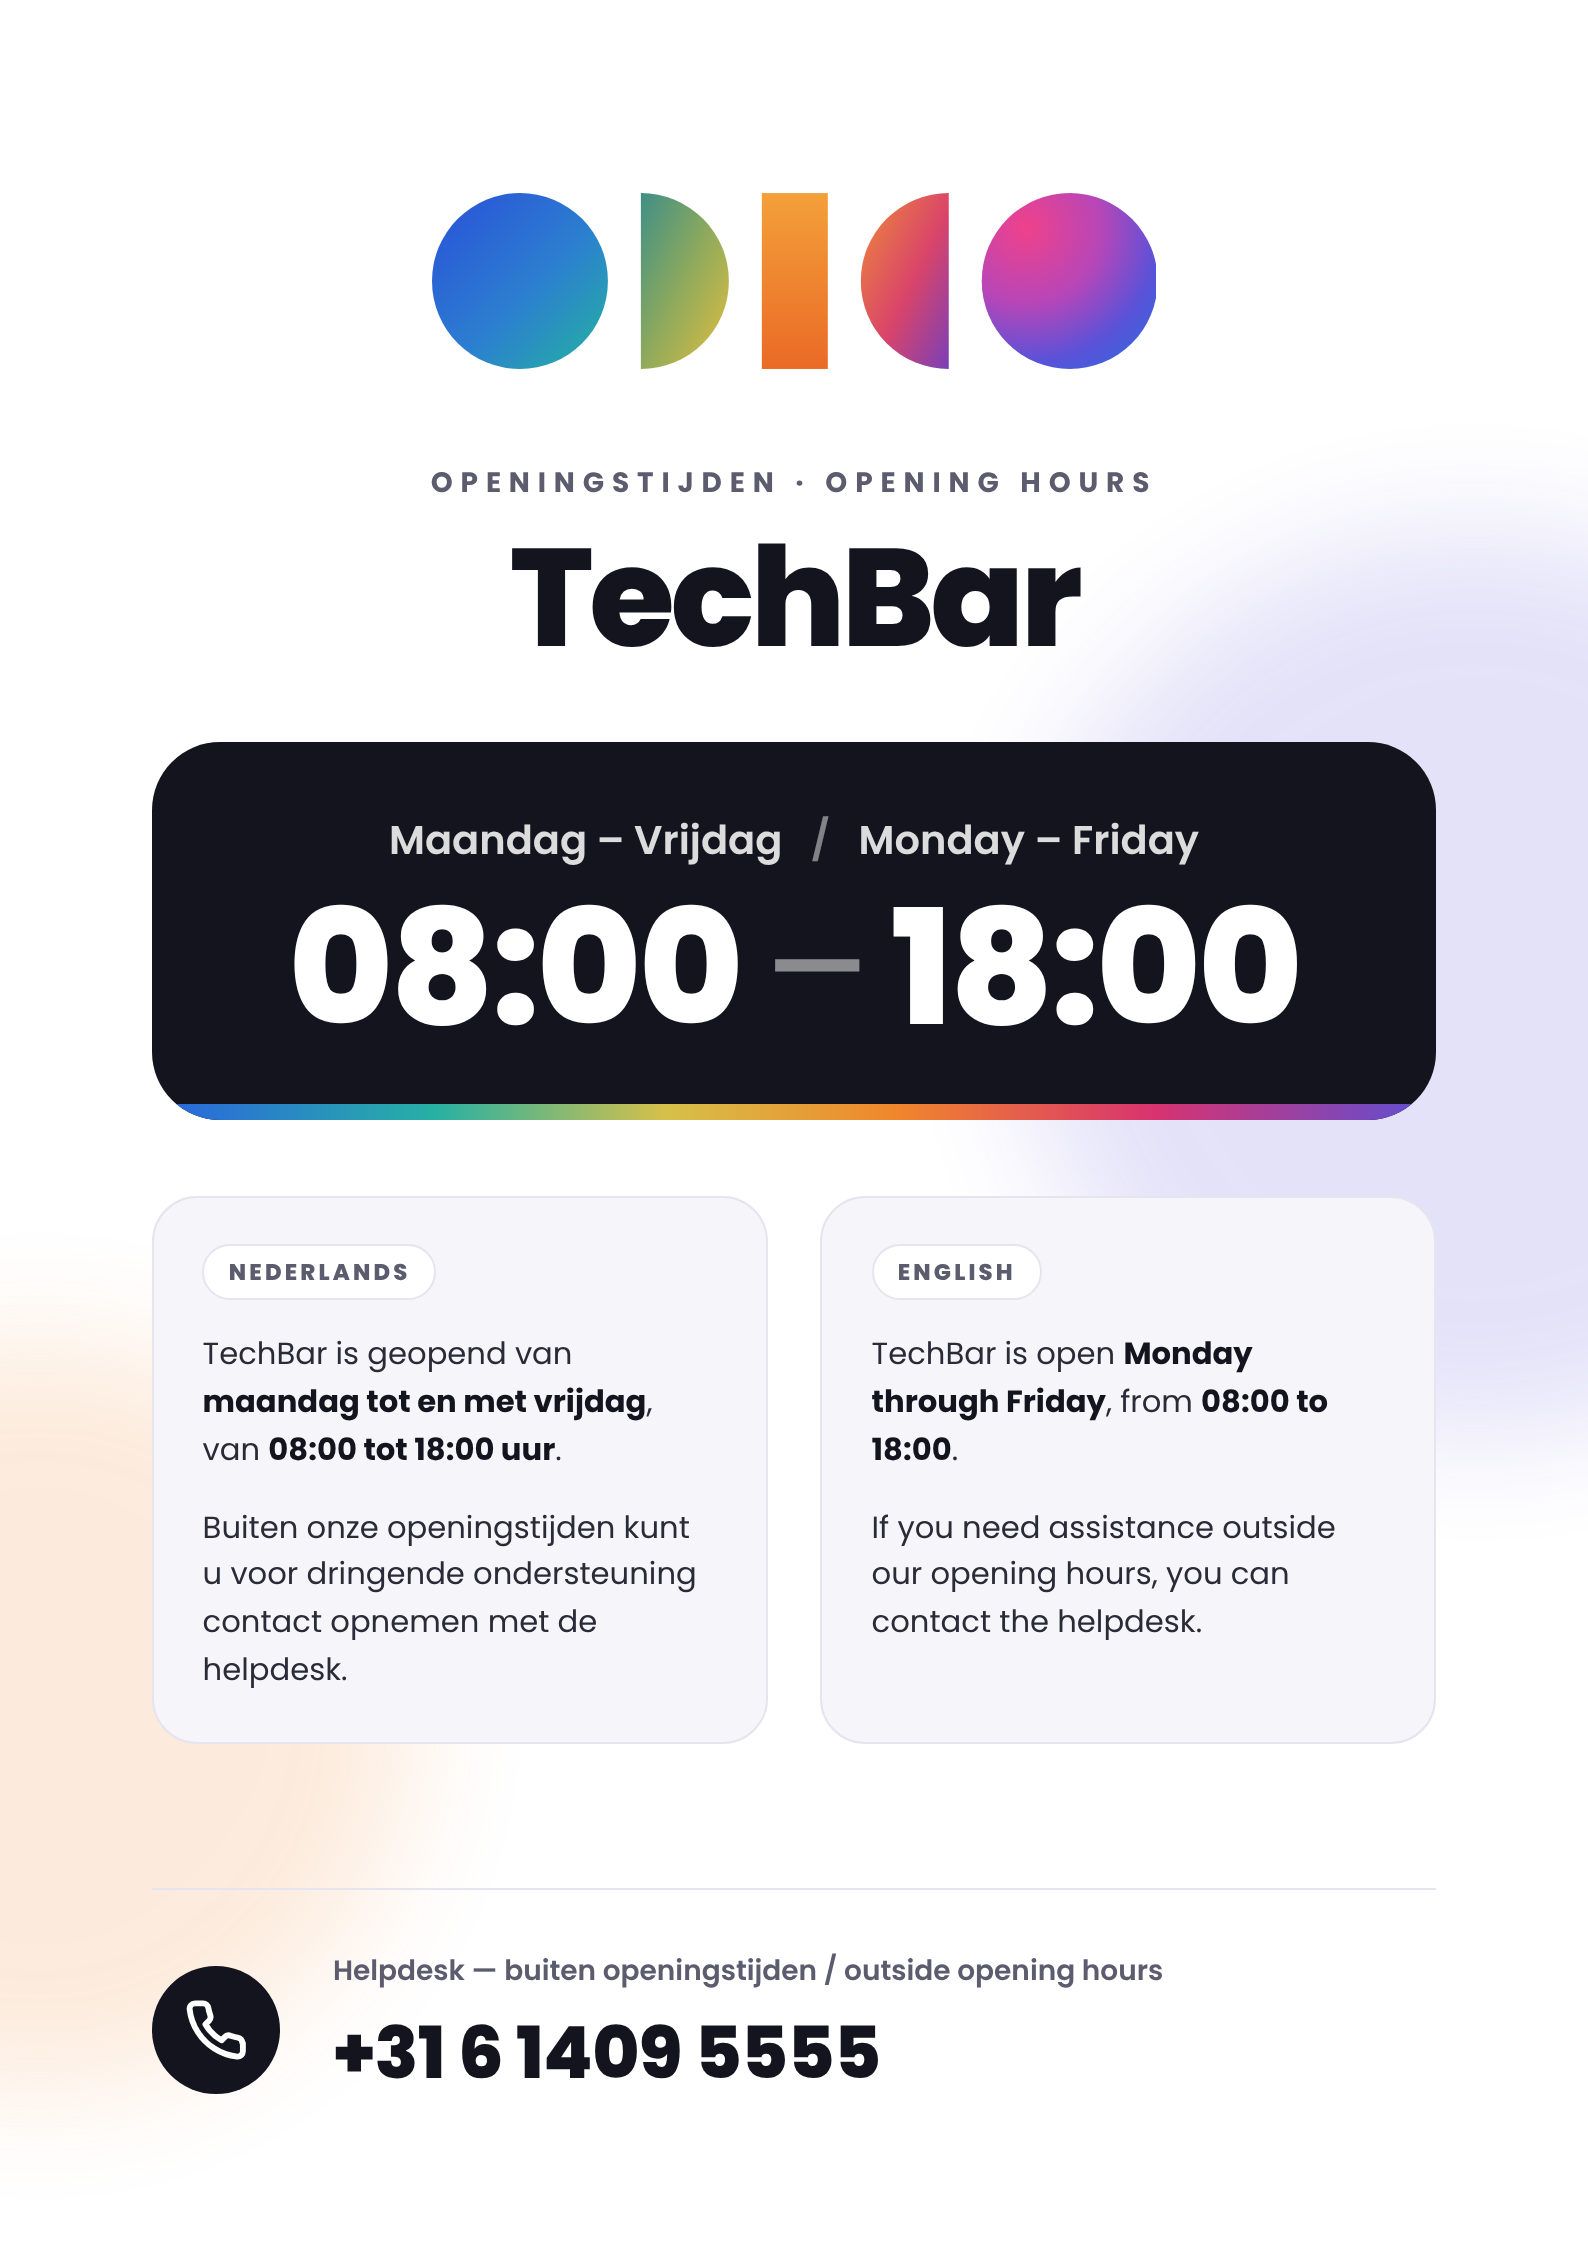
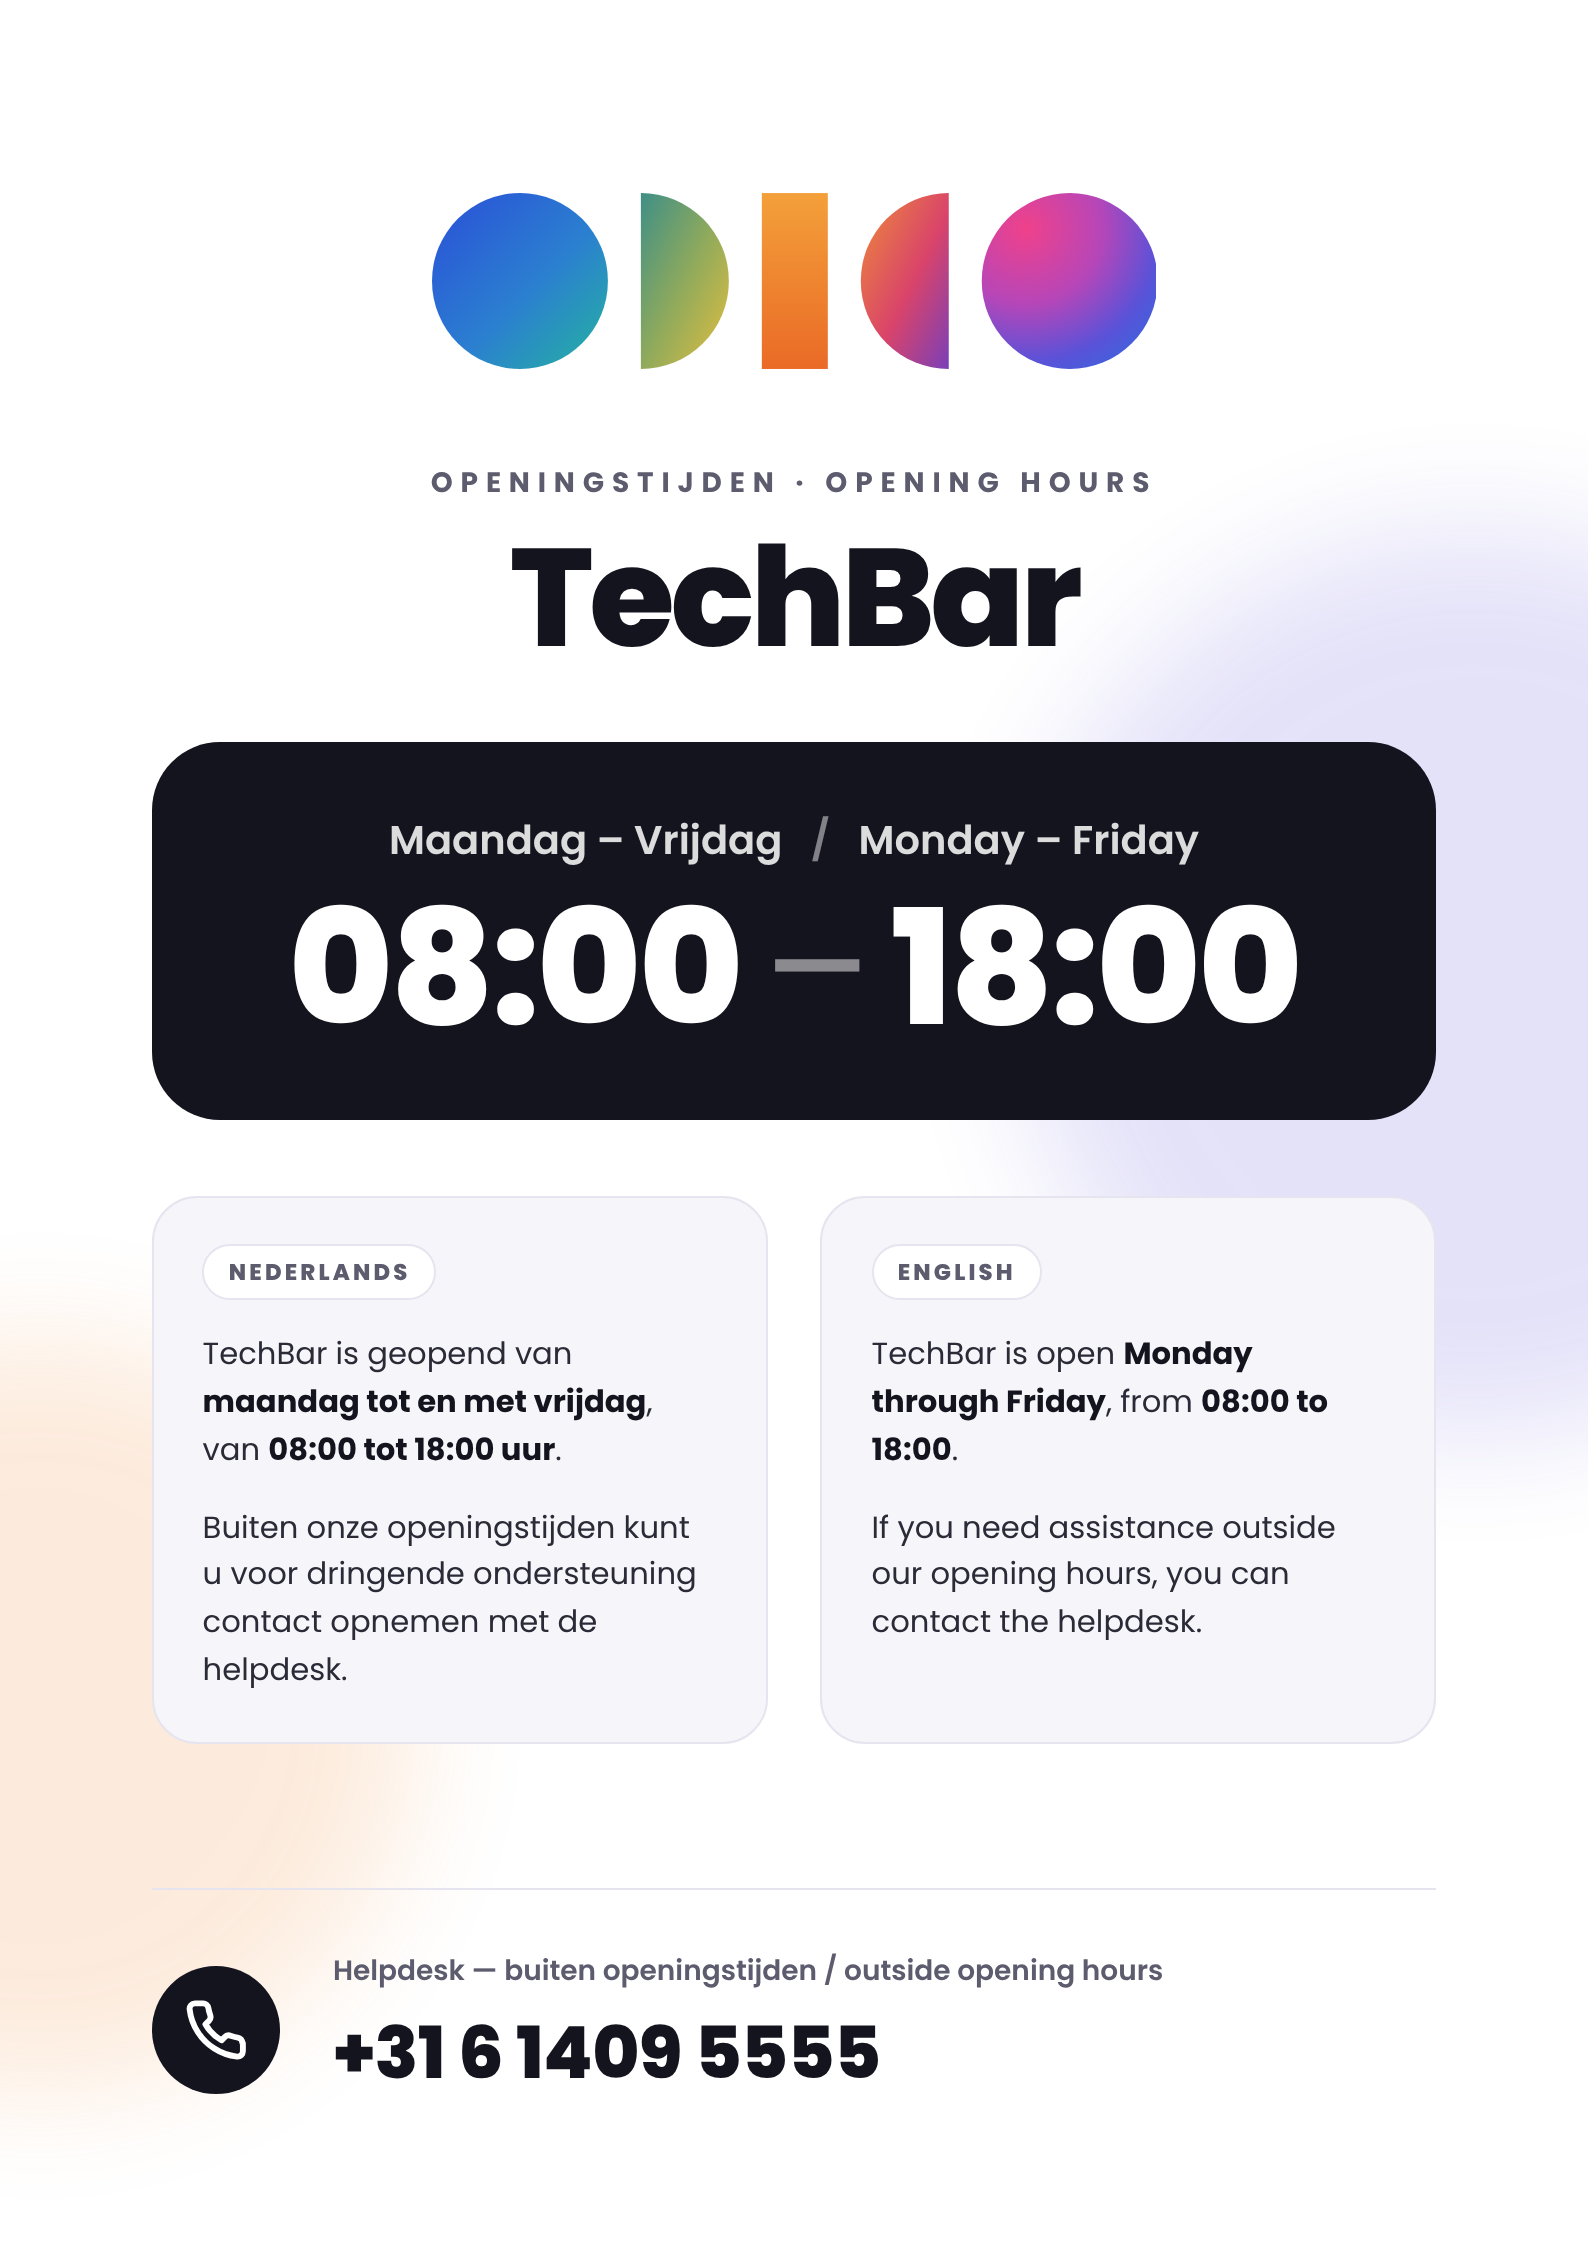
TechBar sign: remove rainbow strip under hours panel
Claude-Session: https://claude.ai/code/session_01D6arYfA5byNcJ3Zeoyf8uT

Changed region(s): [[0.1234, 0.4675, 0.8948, 0.4987]]

diff --git a/techbar-sign/sign.html b/techbar-sign/sign.html
@@ -46,9 +46,6 @@
     background: var(--ink); color: #fff; border-radius: 9mm;
     padding: 9mm 10mm 9mm; text-align: center; position: relative; overflow: hidden;
   }
-  .hours::after {
-    content: ""; position: absolute; left: 0; right: 0; bottom: 0; height: 2.2mm; background: var(--grad);
-  }
   .days { font-size: 15pt; font-weight: 600; opacity: .85; }
   .days span { opacity: .55; margin: 0 2.5mm; }
   .time {
